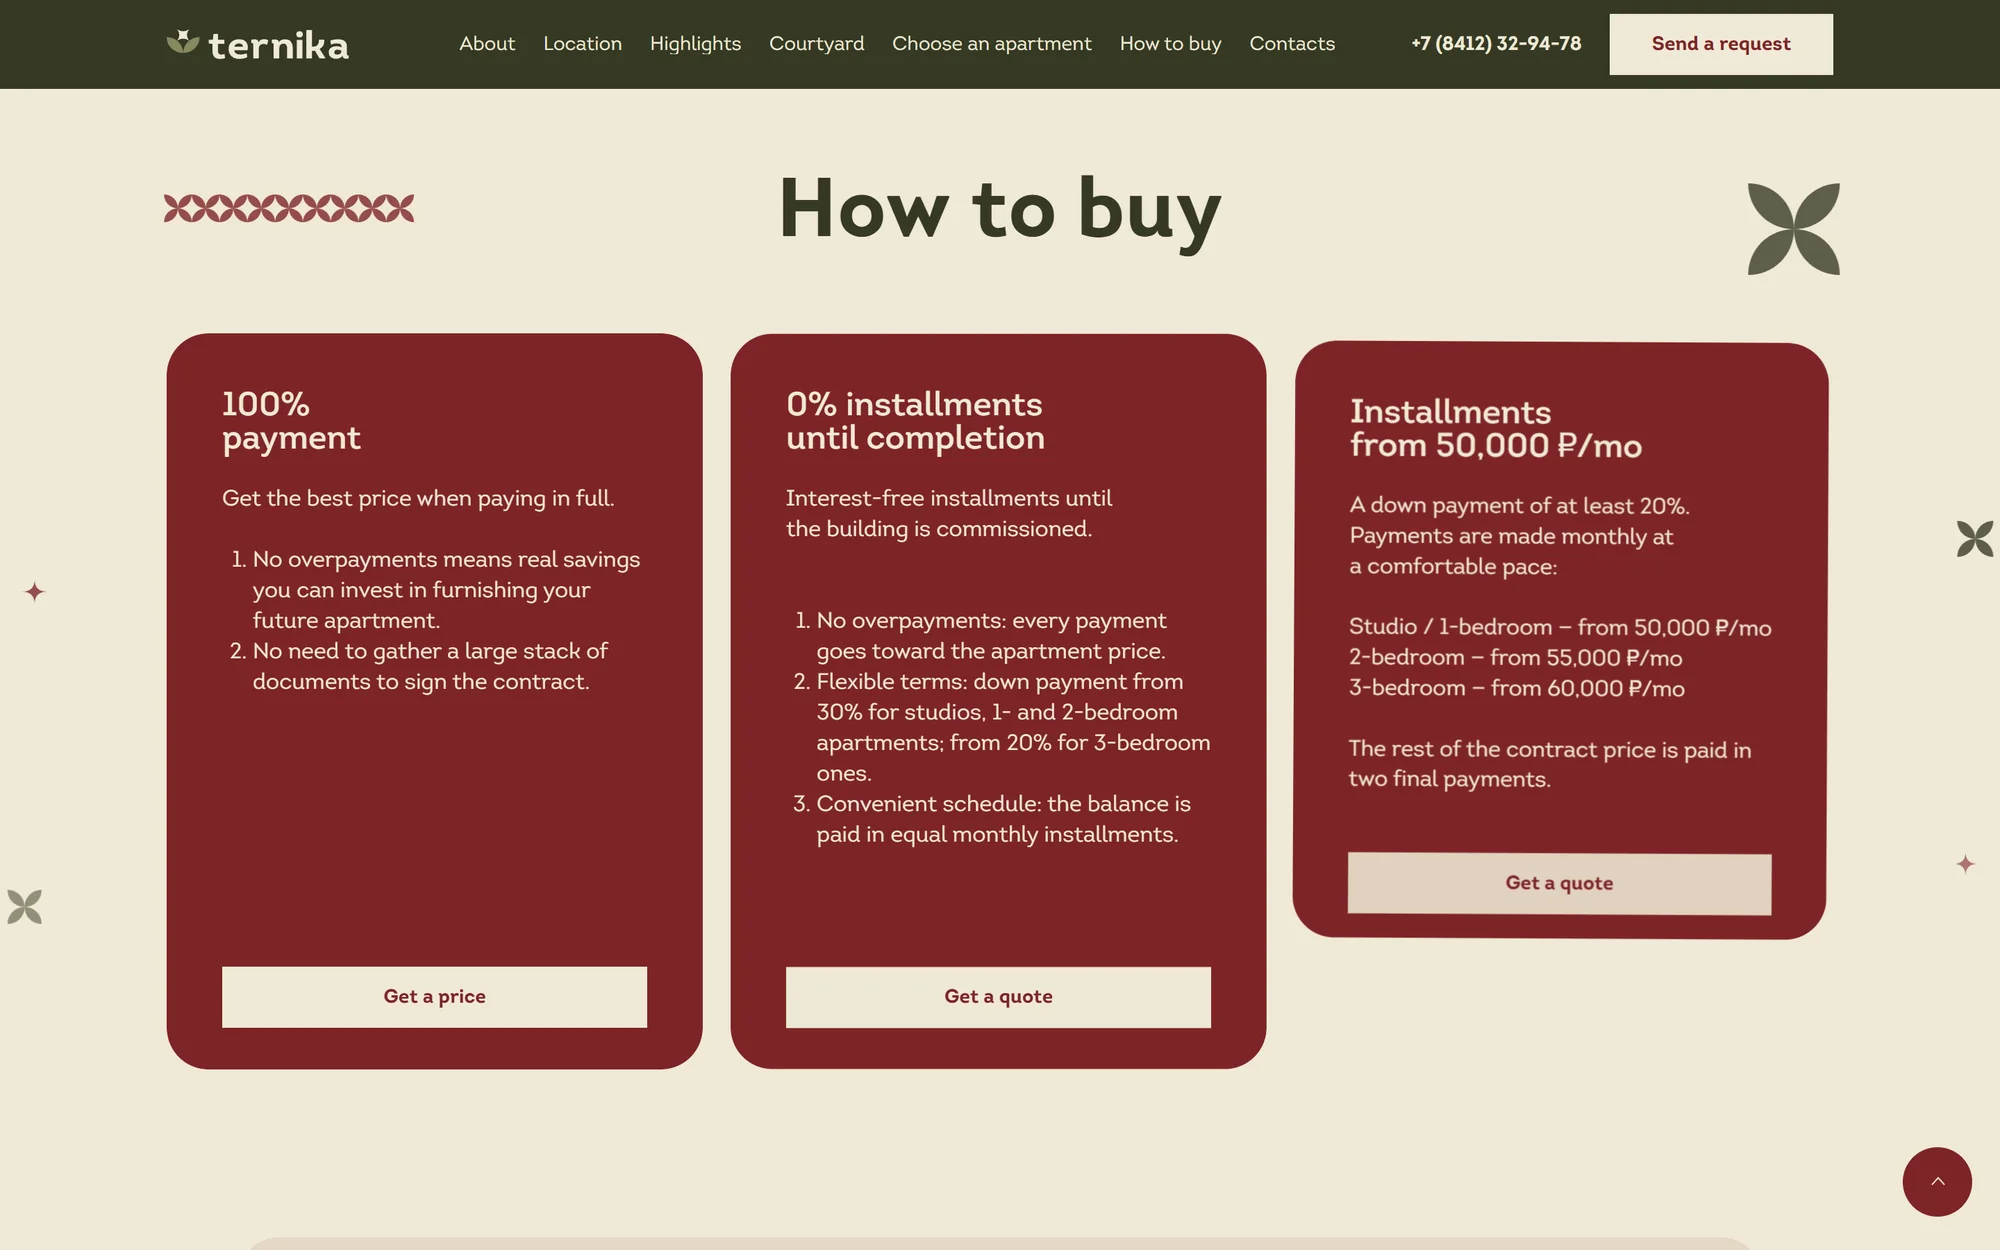
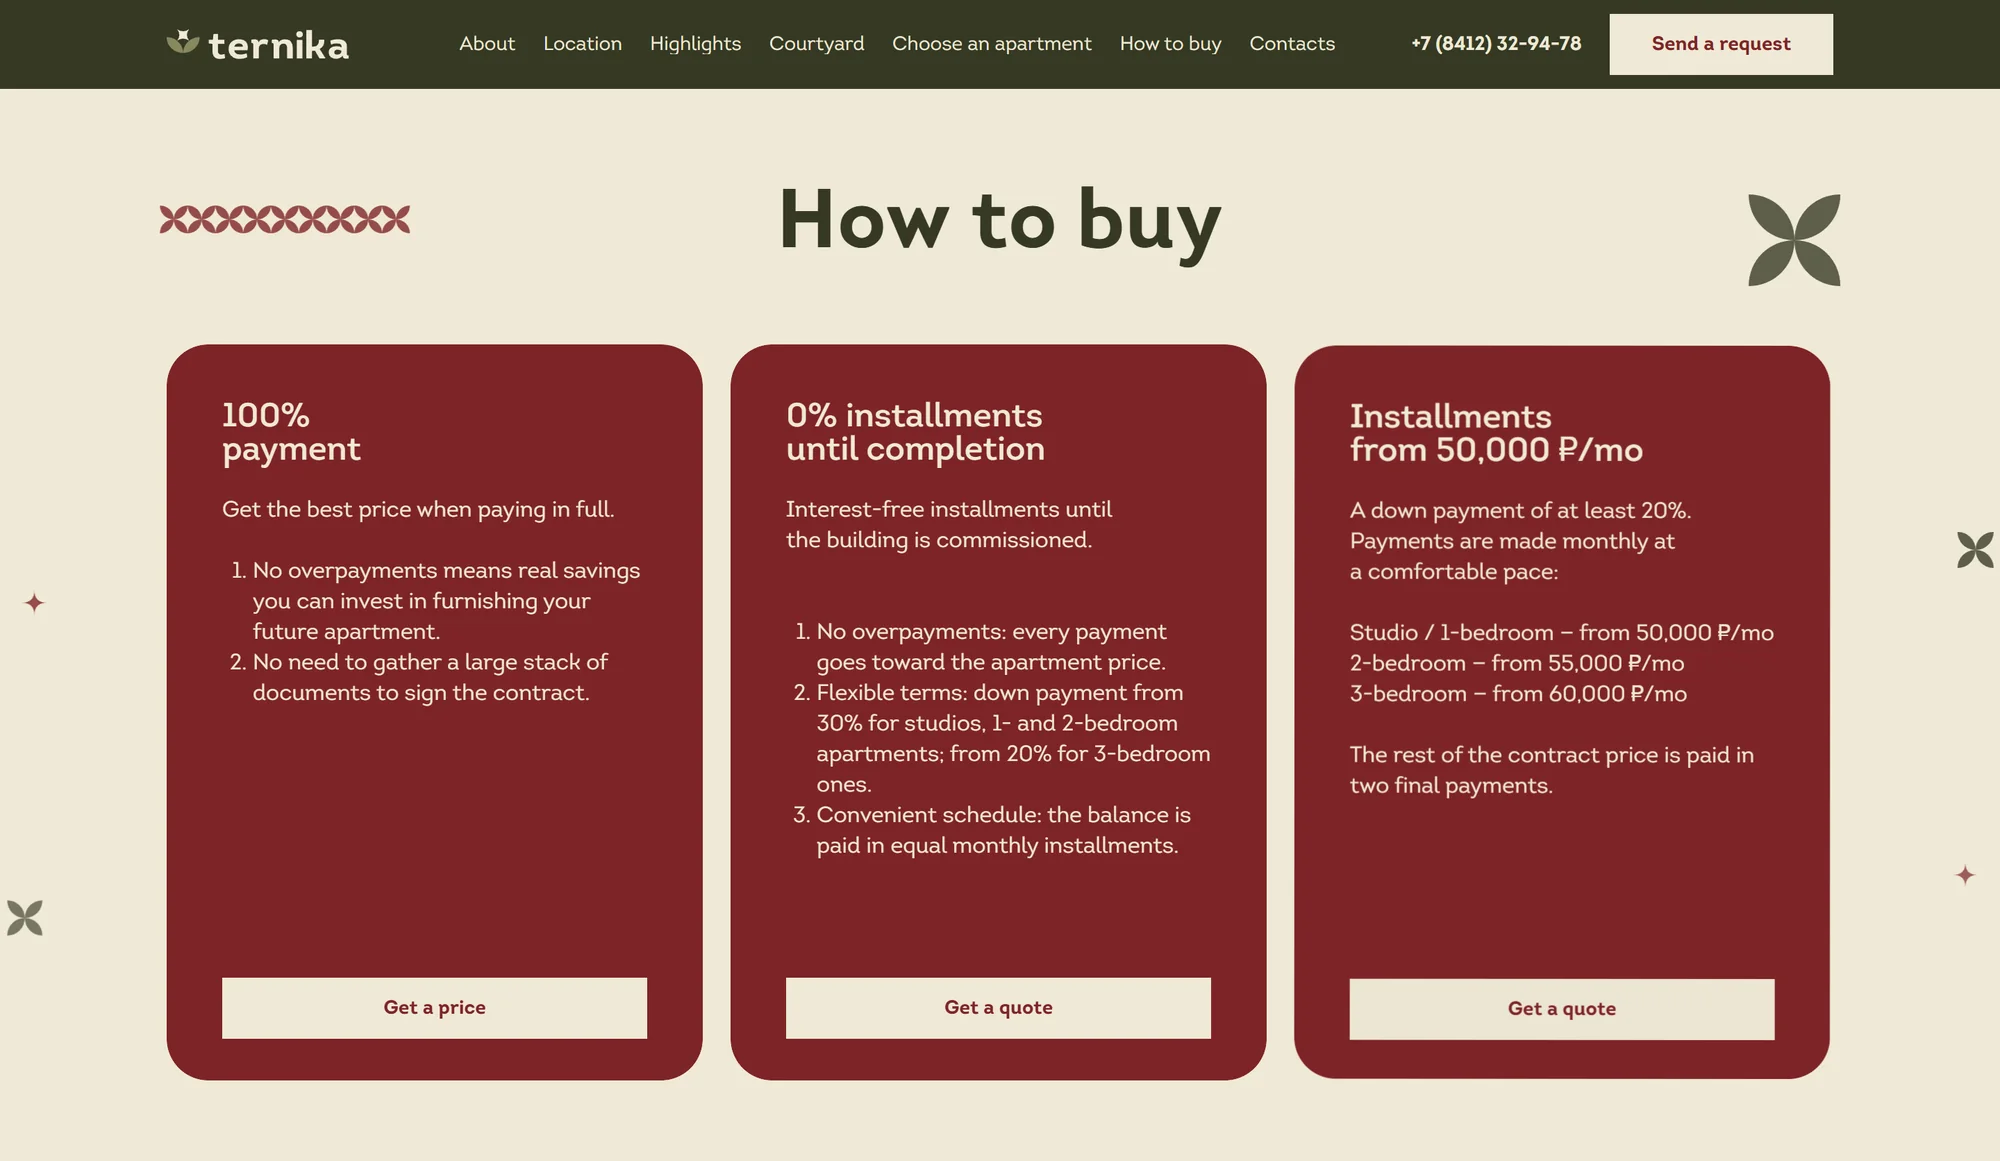
EN: link live site to ternika.kotsardesign.com, reframe How to buy

diff --git a/en/index.html b/en/index.html
@@ -239,7 +239,7 @@ footer .wrap{display:flex;justify-content:space-between;gap:16px;flex-wrap:wrap}
 
 <header class="bar">
   <div class="wrap">
-    <span class="name-ph"><img src="assets/img/maksim-avatar.webp?v=10282110" alt="" width="30" height="30">Maksim Kotsar<em> · websites for real estate developers</em></span>
+    <span class="name-ph"><img src="assets/img/maksim-avatar.webp?v=10282337" alt="" width="30" height="30">Maksim Kotsar<em> · websites for real estate developers</em></span>
     <div class="bar-r">
       <nav class="lang" aria-label="Language"><a href="../ru/" hreflang="ru" lang="ru">RU</a><a aria-current="page">EN</a></nav>
       <a class="btn" href="#contact">Contact me</a>
@@ -258,10 +258,10 @@ footer .wrap{display:flex;justify-content:space-between;gap:16px;flex-wrap:wrap}
       </div>
       <div class="hb-right">
         <p class="lead">A new 771-unit community: 5 buildings on 7.4 acres around a car-free park courtyard. The website became the sales team's main tool at launch: paid traffic lands here, and buyers pick an apartment and send a request right on the site.</p>
-        <a class="site-link" href="https://avtor-ternika.ru/" target="_blank" rel="noopener">View the live site <span aria-hidden="true">↗</span></a>
+        <a class="site-link" href="http://ternika.kotsardesign.com/" target="_blank" rel="noopener">View the live site <span aria-hidden="true">↗</span></a>
       </div>
     </div>
-    <a class="media teaser" href="https://avtor-ternika.ru/" target="_blank" rel="noopener" aria-label="Open the Ternika website"><img src="assets/img/mockup-hero.webp?v=10282110" alt="The Ternika website on a laptop screen" width="1672" height="941"></a>
+    <a class="media teaser" href="http://ternika.kotsardesign.com/" target="_blank" rel="noopener" aria-label="Open the Ternika website"><img src="assets/img/mockup-hero.webp?v=10282337" alt="The Ternika website on a laptop screen" width="1672" height="941"></a>
     <div class="hb-meta">
       <div><small>Client</small><strong>AUTHOR of a New Life</strong><span>real estate developer</span></div>
       <div><small>My role</small><strong>UI/UX design</strong><span>structure, wireframes, visual design, responsive, motion</span></div>
@@ -306,16 +306,16 @@ footer .wrap{display:flex;justify-content:space-between;gap:16px;flex-wrap:wrap}
     </div>
     <div class="wires">
       <figure class="wire tall rv">
-        <div class="media"><img src="assets/img/proto-1-structure.webp?v=10282110" alt="Low-fidelity wireframe of the homepage structure" width="1600" height="4352" loading="lazy"></div>
+        <div class="media"><img src="assets/img/proto-1-structure.webp?v=10282337" alt="Low-fidelity wireframe of the homepage structure" width="1600" height="4352" loading="lazy"></div>
         <figcaption>Homepage structure: from the offer to contacts</figcaption>
       </figure>
       <div class="wire-col">
         <figure class="wire rv">
-          <div class="media"><img src="assets/img/proto-2-map.webp?v=10282110" alt="Low-fidelity wireframe of the neighborhood map with filters" width="1600" height="1000" loading="lazy"></div>
+          <div class="media"><img src="assets/img/proto-2-map.webp?v=10282337" alt="Low-fidelity wireframe of the neighborhood map with filters" width="1600" height="1000" loading="lazy"></div>
           <figcaption>Neighborhood map: filter by travel time and category</figcaption>
         </figure>
         <figure class="wire rv">
-          <div class="media"><img src="assets/img/proto-3-catalog.webp?v=10282110" alt="Low-fidelity wireframe of the apartment catalog" width="1600" height="1000" loading="lazy"></div>
+          <div class="media"><img src="assets/img/proto-3-catalog.webp?v=10282337" alt="Low-fidelity wireframe of the apartment catalog" width="1600" height="1000" loading="lazy"></div>
           <figcaption>Catalog: filters and unit cards with two paths — installments or mortgage</figcaption>
         </figure>
       </div>
@@ -371,7 +371,7 @@ footer .wrap{display:flex;justify-content:space-between;gap:16px;flex-wrap:wrap}
           <h3 style="margin:14px 0">Engaging motion that holds attention</h3>
           <p>A development website is long, and the biggest risk is that people leave halfway. So the page tells the community's story through scroll: a star from the brand pattern (a nod to the blackthorn the community is named after) opens up to reveal the next scene, key numbers appear one by one, courtyard cards slide over the renders. The motion is scroll-driven, not time-based, so visitors set their own pace and never wait.</p>
         </div>
-        <video data-src="assets/video/01-hero-star.mp4?v=10282110" poster="assets/video/01-hero-star.jpg?v=10282110" muted loop playsinline preload="none" width="1440" height="900"></video>
+        <video data-src="assets/video/01-hero-star.mp4?v=10282337" poster="assets/video/01-hero-star.jpg?v=10282337" muted loop playsinline preload="none" width="1440" height="900"></video>
       </div>
     </div>
   </div>
@@ -396,8 +396,8 @@ footer .wrap{display:flex;justify-content:space-between;gap:16px;flex-wrap:wrap}
     </div>
 
     <figure class="shot rv">
-      <div class="media"><img src="assets/img/d-01-hero.webp?v=10282110" alt="Ternika website first screen: “Silence lives here”" width="2000" height="1250" loading="lazy"></div>
-      <div class="media"><video data-src="assets/video/02-happiness-story.mp4?v=10282110" poster="assets/video/02-happiness-story.jpg?v=10282110" muted loop playsinline preload="none" width="1440" height="900"></video></div>
+      <div class="media"><img src="assets/img/d-01-hero.webp?v=10282337" alt="Ternika website first screen: “Silence lives here”" width="2000" height="1250" loading="lazy"></div>
+      <div class="media"><video data-src="assets/video/02-happiness-story.mp4?v=10282337" poster="assets/video/02-happiness-story.jpg?v=10282337" muted loop playsinline preload="none" width="1440" height="900"></video></div>
       <figcaption class="cap">
         <h3>Hero and story<span class="tags"><span class="tag t-want">Desire</span><span class="tag t-trust">Trust</span></span></h3>
         <p>We sell a lifestyle, not square meters: quiet and nature next to the city. Right under the emotion come the facts: sales status and completion date. A developer who states deadlines on the first screen earns more trust than one who hides them.<span class="anim">Motion: the story behind the name unfolds through changing scenes on scroll</span></p>
@@ -405,7 +405,7 @@ footer .wrap{display:flex;justify-content:space-between;gap:16px;flex-wrap:wrap}
     </figure>
 
     <figure class="shot rv">
-      <div class="media"><video data-src="assets/video/03-numbers.mp4?v=10282110" poster="assets/video/03-numbers.jpg?v=10282110" muted loop playsinline preload="none" width="1440" height="900"></video></div>
+      <div class="media"><video data-src="assets/video/03-numbers.mp4?v=10282337" poster="assets/video/03-numbers.jpg?v=10282337" muted loop playsinline preload="none" width="1440" height="900"></video></div>
       <figcaption class="cap">
         <h3>Ternika in numbers<span class="tags"><span class="tag t-trust">Trust</span></span></h3>
         <p>7.4 acres, 5 buildings, 771 apartments. Scale signals reliability. Numbers instead of adjectives let buyers draw their own conclusion.<span class="anim">Motion: numbers appear one at a time so each one sticks</span></p>
@@ -413,7 +413,7 @@ footer .wrap{display:flex;justify-content:space-between;gap:16px;flex-wrap:wrap}
     </figure>
 
     <figure class="shot rv">
-      <div class="media"><img src="assets/img/d-06-map.webp?v=10282110" alt="Interactive neighborhood map with a travel-time filter" width="2000" height="1250" loading="lazy"></div>
+      <div class="media"><img src="assets/img/d-06-map.webp?v=10282337" alt="Interactive neighborhood map with a travel-time filter" width="2000" height="1250" loading="lazy"></div>
       <figcaption class="cap">
         <h3>Interactive neighborhood map<span class="tags"><span class="tag t-trust">Trust</span></span></h3>
         <p>We don't promise “great amenities”, we show every school and clinic, with a travel-time filter on foot and by car. Buyers check for themselves — and believe it, because nothing is hidden.</p>
@@ -421,11 +421,11 @@ footer .wrap{display:flex;justify-content:space-between;gap:16px;flex-wrap:wrap}
     </figure>
 
     <figure class="shot rv">
-      <div class="media"><img src="assets/img/d-07-highlights.webp?v=10282110" alt="Community highlights" width="2000" height="1250" loading="lazy"></div>
-      <div class="media"><video data-src="assets/video/05-kids-courtyard.mp4?v=10282110" poster="assets/video/05-kids-courtyard.jpg?v=10282110" muted loop playsinline preload="none" width="1440" height="900"></video></div>
+      <div class="media"><img src="assets/img/d-07-highlights.webp?v=10282337" alt="Community highlights" width="2000" height="1250" loading="lazy"></div>
+      <div class="media"><video data-src="assets/video/05-kids-courtyard.mp4?v=10282337" poster="assets/video/05-kids-courtyard.jpg?v=10282337" muted loop playsinline preload="none" width="1440" height="900"></video></div>
       <div class="pair">
-        <div class="media"><img src="assets/img/d-10-courtyard.webp?v=10282110" alt="A courtyard made for strolling" width="2000" height="1250" loading="lazy"></div>
-        <div class="media"><img src="assets/img/d-12-sports-courtyard.webp?v=10282110" alt="Sports courtyard" width="2000" height="1250" loading="lazy"></div>
+        <div class="media"><img src="assets/img/d-10-courtyard.webp?v=10282337" alt="A courtyard made for strolling" width="2000" height="1250" loading="lazy"></div>
+        <div class="media"><img src="assets/img/d-12-sports-courtyard.webp?v=10282337" alt="Sports courtyard" width="2000" height="1250" loading="lazy"></div>
       </div>
       <figcaption class="cap">
         <h3>Car-free, gated courtyard<span class="tags"><span class="tag t-want">Desire</span></span></h3>
@@ -434,8 +434,8 @@ footer .wrap{display:flex;justify-content:space-between;gap:16px;flex-wrap:wrap}
     </figure>
 
     <figure class="shot rv">
-      <div class="media"><video data-src="assets/video/04-architecture.mp4?v=10282110" poster="assets/video/04-architecture.jpg?v=10282110" muted loop playsinline preload="none" width="1440" height="900"></video></div>
-      <div class="media"><video data-src="assets/video/06-lobbies.mp4?v=10282110" poster="assets/video/06-lobbies.jpg?v=10282110" muted loop playsinline preload="none" width="1440" height="900"></video></div>
+      <div class="media"><video data-src="assets/video/04-architecture.mp4?v=10282337" poster="assets/video/04-architecture.jpg?v=10282337" muted loop playsinline preload="none" width="1440" height="900"></video></div>
+      <div class="media"><video data-src="assets/video/06-lobbies.mp4?v=10282337" poster="assets/video/06-lobbies.jpg?v=10282337" muted loop playsinline preload="none" width="1440" height="900"></video></div>
       <figcaption class="cap">
         <h3>Architecture and lobbies<span class="tags"><span class="tag t-want">Desire</span></span></h3>
         <p>Callouts on the facade explain what buyers pay for: signature architecture and designer lobbies. The price reads as justified, not inflated.<span class="anim">Motion: the facade opens up inside the star, and lobby spaces appear one by one — like a walk from the entrance to the elevator</span></p>
@@ -443,10 +443,10 @@ footer .wrap{display:flex;justify-content:space-between;gap:16px;flex-wrap:wrap}
     </figure>
 
     <figure class="shot rv">
-      <div class="media"><video data-src="assets/video/07-find-apartment.mp4?v=10282110" poster="assets/video/07-find-apartment.jpg?v=10282110" muted loop playsinline preload="none" width="1440" height="900"></video></div>
+      <div class="media"><video data-src="assets/video/07-find-apartment.mp4?v=10282337" poster="assets/video/07-find-apartment.jpg?v=10282337" muted loop playsinline preload="none" width="1440" height="900"></video></div>
       <div class="pair">
-        <div class="media"><img src="assets/img/d-17-layout-types.webp?v=10282110" alt="Floor plan types" width="2000" height="1250" loading="lazy"></div>
-        <div class="media"><img src="assets/img/d-19-pre-finish.webp?v=10282110" alt="Pre-finish standard" width="2000" height="1250" loading="lazy"></div>
+        <div class="media"><img src="assets/img/d-17-layout-types.webp?v=10282337" alt="Floor plan types" width="2000" height="1250" loading="lazy"></div>
+        <div class="media"><img src="assets/img/d-19-pre-finish.webp?v=10282337" alt="Pre-finish standard" width="2000" height="1250" loading="lazy"></div>
       </div>
       <figcaption class="cap">
         <h3>Floor plans and finish standard<span class="tags"><span class="tag t-trust">Trust</span></span></h3>
@@ -455,7 +455,7 @@ footer .wrap{display:flex;justify-content:space-between;gap:16px;flex-wrap:wrap}
     </figure>
 
     <figure class="shot rv">
-      <div class="media"><img src="assets/img/d-18-catalog.webp?v=10282110" alt="Catalog of available apartments" width="2000" height="1250" loading="lazy"></div>
+      <div class="media"><img src="assets/img/d-18-catalog.webp?v=10282337" alt="Catalog of available apartments" width="2000" height="1250" loading="lazy"></div>
       <figcaption class="cap">
         <h3>Live catalog of available units<span class="tags"><span class="tag t-trust">Trust</span><span class="tag t-buy">Action</span></span></h3>
         <p>Only units that are actually for sale, with current data — 171 apartments at launch. Buyers see an honest picture and pick a specific unit, and the request reaches the manager with that unit already attached.</p>
@@ -463,7 +463,7 @@ footer .wrap{display:flex;justify-content:space-between;gap:16px;flex-wrap:wrap}
     </figure>
 
     <figure class="shot rv">
-      <div class="media"><img src="assets/img/d-20-how-to-buy.webp?v=10282110" alt="How to buy: payment, installments, mortgage" width="2000" height="1250" loading="lazy"></div>
+      <div class="media"><img src="assets/img/d-20-how-to-buy.webp?v=10282337" alt="How to buy: payment, installments, mortgage" width="2000" height="1161" loading="lazy"></div>
       <figcaption class="cap">
         <h3>How to buy<span class="tags"><span class="tag t-buy">Action</span></span></h3>
         <p>The most important section for the decision. 0% installments, mortgage from 6%, monthly payments from RUB 50,000 — buyers see right away that the apartment is within reach. A 2-month price lock removes the “I need to sell my place first” barrier.</p>
@@ -471,8 +471,8 @@ footer .wrap{display:flex;justify-content:space-between;gap:16px;flex-wrap:wrap}
     </figure>
 
     <figure class="shot rv">
-      <div class="media"><video data-src="assets/video/08-developer.mp4?v=10282110" poster="assets/video/08-developer.jpg?v=10282110" muted loop playsinline preload="none" width="1440" height="900"></video></div>
-      <div class="media"><img src="assets/img/d-22-contacts.webp?v=10282110" alt="Contacts and sales office" width="2000" height="1250" loading="lazy"></div>
+      <div class="media"><video data-src="assets/video/08-developer.mp4?v=10282337" poster="assets/video/08-developer.jpg?v=10282337" muted loop playsinline preload="none" width="1440" height="900"></video></div>
+      <div class="media"><img src="assets/img/d-22-contacts.webp?v=10282337" alt="Contacts and sales office" width="2000" height="1250" loading="lazy"></div>
       <figcaption class="cap">
         <h3>Developer and sales office<span class="tags"><span class="tag t-trust">Trust</span><span class="tag t-buy">Action</span></span></h3>
         <p>Off-plan buyers buy the developer's promise. So we show 5 other projects, the legal entity, tax ID and project declaration — and a real sales office with a “Get directions” button.<span class="anim">Motion: the developer's projects gather around the logo — the company's scale, shown without words</span></p>
@@ -481,10 +481,10 @@ footer .wrap{display:flex;justify-content:space-between;gap:16px;flex-wrap:wrap}
 
     <figure class="shot rv">
       <div class="phones">
-        <div class="phone"><video data-src="assets/video/m01-hero-star.mp4?v=10282110" poster="assets/video/m01-hero-star.jpg?v=10282110" muted loop playsinline preload="none" width="780" height="1688"></video></div>
-        <div class="phone"><img src="assets/img/m-06-map.webp?v=10282110" alt="Map on a phone" width="780" height="1688" loading="lazy"></div>
-        <div class="phone"><img src="assets/img/m-23-catalog-cards.webp?v=10282110" alt="Catalog on a phone" width="780" height="1688" loading="lazy"></div>
-        <div class="phone"><video data-src="assets/video/m02-find-apartment.mp4?v=10282110" poster="assets/video/m02-find-apartment.jpg?v=10282110" muted loop playsinline preload="none" width="780" height="1688"></video></div>
+        <div class="phone"><video data-src="assets/video/m01-hero-star.mp4?v=10282337" poster="assets/video/m01-hero-star.jpg?v=10282337" muted loop playsinline preload="none" width="780" height="1688"></video></div>
+        <div class="phone"><img src="assets/img/m-06-map.webp?v=10282337" alt="Map on a phone" width="780" height="1688" loading="lazy"></div>
+        <div class="phone"><img src="assets/img/m-23-catalog-cards.webp?v=10282337" alt="Catalog on a phone" width="780" height="1688" loading="lazy"></div>
+        <div class="phone"><video data-src="assets/video/m02-find-apartment.mp4?v=10282337" poster="assets/video/m02-find-apartment.jpg?v=10282337" muted loop playsinline preload="none" width="780" height="1688"></video></div>
       </div>
       <figcaption class="cap">
         <h3>Mobile<span class="tags"><span class="tag t-buy">Action</span></span></h3>
@@ -534,7 +534,7 @@ footer .wrap{display:flex;justify-content:space-between;gap:16px;flex-wrap:wrap}
   <div class="wrap">
     <div class="kicker">Client testimonial</div>
     <figure class="review rv">
-      <div class="review-photo"><img src="assets/img/review-andrey.webp?v=10282110" alt="Andrey Dvoryankin" width="800" height="960" loading="lazy"></div>
+      <div class="review-photo"><img src="assets/img/review-andrey.webp?v=10282337" alt="Andrey Dvoryankin" width="800" height="960" loading="lazy"></div>
       <div>
         <div class="q-mark" aria-hidden="true">“</div>
         <blockquote>
@@ -552,8 +552,8 @@ footer .wrap{display:flex;justify-content:space-between;gap:16px;flex-wrap:wrap}
 <!-- 8. Call to action -->
 <section id="contact" class="contact">
   <picture class="contact-bg">
-    <source media="(max-width:860px)" srcset="assets/img/contact-mobile.webp?v=10282110" width="751" height="2000">
-    <img src="assets/img/contact-desktop.webp?v=10282110" alt="Maksim Kotsar" width="1672" height="941">
+    <source media="(max-width:860px)" srcset="assets/img/contact-mobile.webp?v=10282337" width="751" height="2000">
+    <img src="assets/img/contact-desktop.webp?v=10282337" alt="Maksim Kotsar" width="1672" height="941">
   </picture>
   <div class="wrap contact-grid">
     <div class="cta rv">
